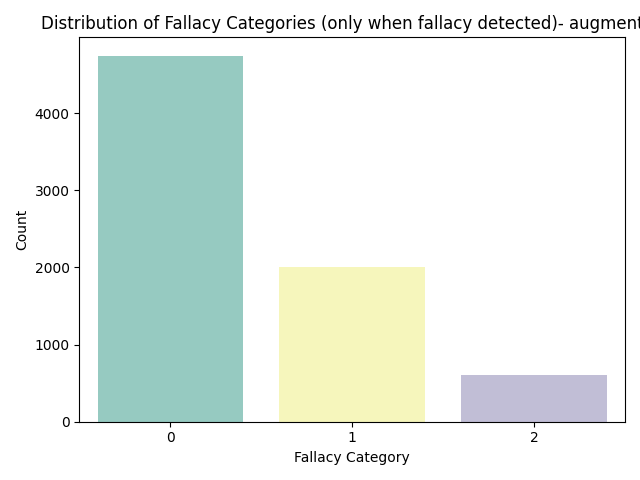
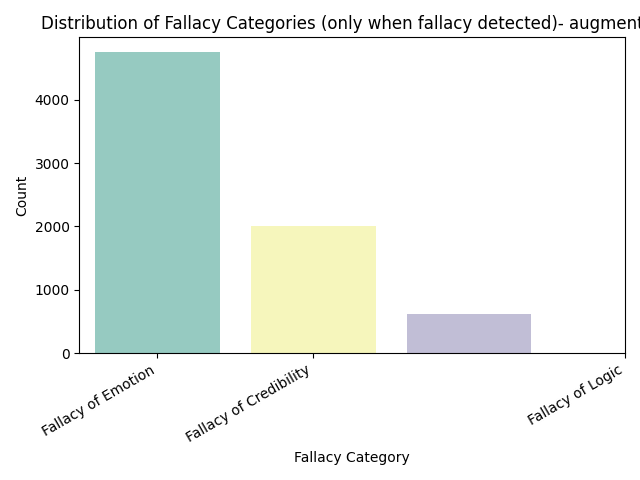
more intuitive axis labels for EDA plots

Changed region(s): [[0.0, 0.0938, 0.8438, 0.9375], [0.7188, 0.75, 0.9688, 0.9062]]

diff --git a/data/MM_USED_fallacy/data_analysis.py b/data/MM_USED_fallacy/data_analysis.py
@@ -11,35 +11,57 @@ def plot_fallacy_detection_distribution(df, augmented=False):
     
     sns.countplot(x='fallacy_detection', hue='fallacy_detection', data=df, palette='Set3', legend=False)
     plt.title(f'Distribution of Fallacy Detection{suffix}')
-    plt.xlabel('Fallacy Detected (1=True, 0=False)')
+    plt.xlabel('Fallacy Detection')
     plt.ylabel('Count')
+
+
+    plt.xticks(ticks=[0, 1], labels=['Non-Fallacious', 'Fallacious'])
+    
     plt.tight_layout()
     plt.savefig(os.path.join(SAVE_DIR, f'fallacy_detection_distribution{suffix}.png'))
     plt.clf()
+
 
 def plot_category_distribution(df, augmented=False):
     suffix = "- augmented" if augmented else ""
 
     filtered_df = df[df['fallacy_detection'] == 1]
 
-    sns.countplot(x='category', data=filtered_df, palette='Set3', legend=False)
-
-    plt.title(f'Distribution of Fallacy Categories (only when fallacy detected){suffix}')
-    plt.xlabel('Fallacy Category')
-    plt.ylabel('Count')
-
     # Mapping category indices to names
     category_mapping = {
         0: "Fallacy of Emotion",
         1: "Fallacy of Credibility",
-        3: "Fallacy of Logic"
+        2: "Fallacy of Logic"
     }
 
-    plt.xticks(ticks=list(category_mapping.keys()), labels=list(category_mapping.values()), rotation=30, ha='right')
+    order = list(category_mapping.keys())  # [0, 1, 2]
+
+    sns.countplot(
+        x='category',
+        data=filtered_df,
+        palette='Set3',
+        order=order,
+        legend=False
+    )
+
+    plt.title(f'Distribution of Fallacy Categories{suffix}')
+    plt.xlabel('Fallacy Category')
+    plt.ylabel('Count')
+
+
+    plt.xticks(
+        ticks=range(len(order)), 
+        labels=[category_mapping[k] for k in order],
+        rotation=30,
+        ha='right'
+    )
 
     plt.tight_layout()
+
+    # Make sure SAVE_DIR is defined in your script
     plt.savefig(os.path.join(SAVE_DIR, f'category_distribution{suffix}.png'))
     plt.clf()
+
 
 def plot_class_distribution(df, augmented=False):
     suffix = "- augmented" if augmented else ""
@@ -49,7 +71,7 @@ def plot_class_distribution(df, augmented=False):
 
     sns.countplot(x='class', data=filtered_df, palette='Set3', legend=False)
 
-    plt.title(f'Distribution of Fallacy Classes (only when fallacy detected){suffix}')
+    plt.title(f'Distribution of Fallacy Classes {suffix}')
     plt.xlabel('Fallacy Class')
     plt.ylabel('Count')
 
@@ -77,10 +99,10 @@ def print_distribution(df, column_name, only_where_fallacy=True):
     print(counts.round(2).astype(str) + " %")
 
 def main():
-    df = pd.read_csv('aug_data.csv')
+    df = pd.read_csv('full_data_processed.csv')
 
     # Set this to True or False depending on the data you're using
-    is_augmented = True
+    is_augmented = False
 
     plot_fallacy_detection_distribution(df, augmented=is_augmented)
     plot_category_distribution(df, augmented=is_augmented)
